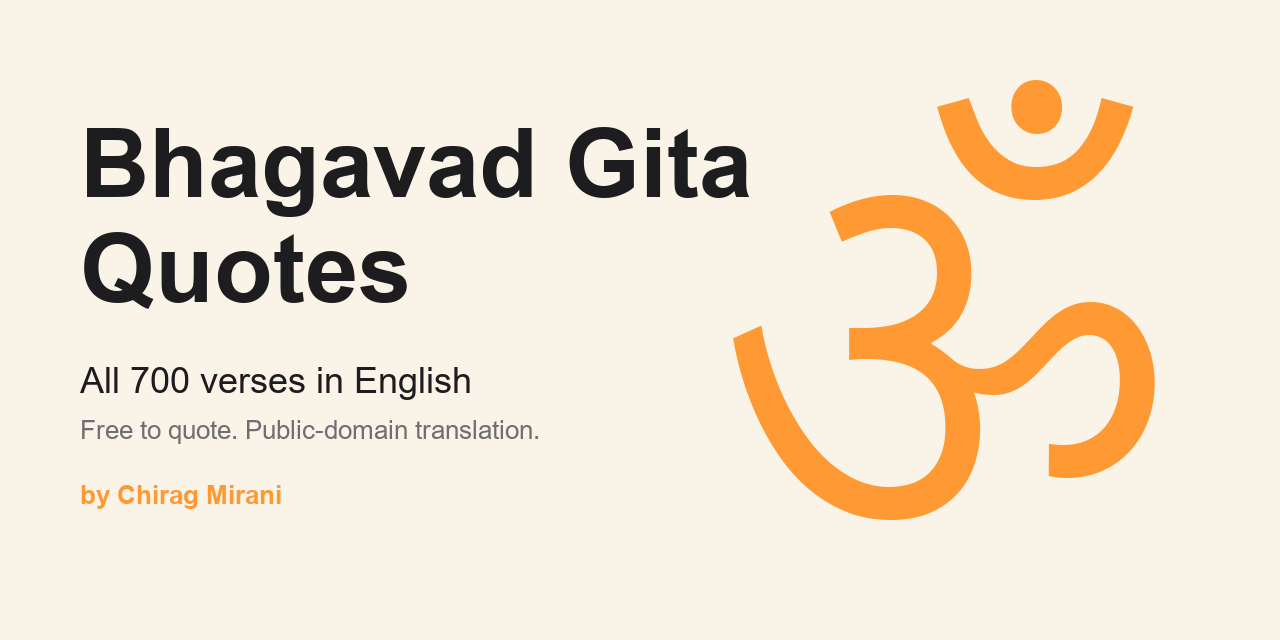
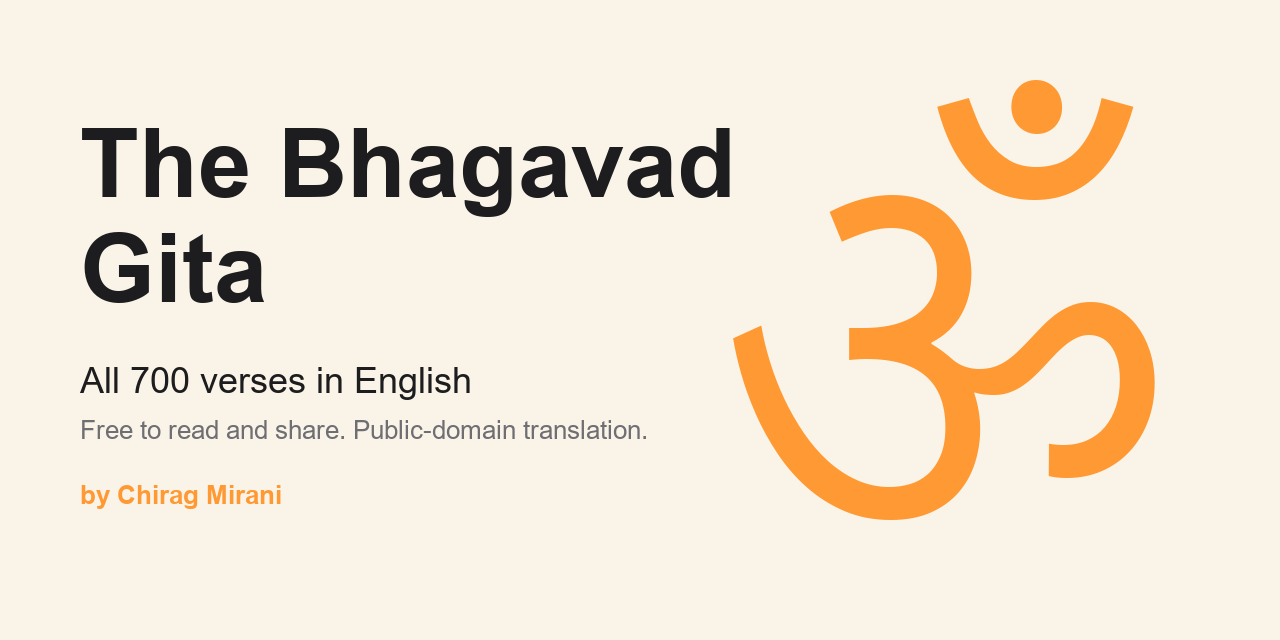
Reframe as the Bhagavad Gita itself, not quotes from it. Brand: Gita.

Changed region(s): [[0.0625, 0.1875, 0.5938, 0.3438], [0.0625, 0.3438, 0.3438, 0.5], [0.125, 0.6562, 0.5, 0.6875]]

diff --git a/docs/index.html b/docs/index.html
@@ -3,24 +3,24 @@
   <head>
     <meta charset="utf-8">
     <meta name="viewport" content="width=device-width, initial-scale=1, viewport-fit=cover">
-    <title>Bhagavad Gita Quotes by Chirag Mirani</title>
-    <meta name="description" content="A clean web app for reading and sharing all 700 verses of the Bhagavad Gita in English, with original Sanskrit and transliteration. Free to quote, public-domain translation. Built by Chirag Mirani.">
+    <title>Gita — The Bhagavad Gita in English</title>
+    <meta name="description" content="The complete Bhagavad Gita, all 700 verses in English. The dialogue between Krishna and Arjuna on duty, action, and the self. Original Sanskrit, transliteration, and a clean public-domain English translation. Free to read, share, and reuse.">
     <meta name="author" content="Chirag Mirani">
     <meta name="robots" content="index,follow,max-image-preview:large">
-    <meta name="keywords" content="bhagavad gita, gita quotes, bhagavad gita english, gita verses, krishna arjuna, hindu philosophy, gita app, gita quote of the day">
+    <meta name="keywords" content="bhagavad gita, bhagavad gita english, gita verses, srimad bhagavad gita, krishna arjuna dialogue, hindu philosophy, gita online, read bhagavad gita">
     <link rel="canonical" href="https://chiragmirani.github.io/gita-quotes/">
 
-    <meta property="og:type" content="website">
-    <meta property="og:title" content="Bhagavad Gita Quotes by Chirag Mirani">
-    <meta property="og:description" content="All 700 verses of the Bhagavad Gita in English, free to quote. Public-domain translation.">
+    <meta property="og:type" content="book">
+    <meta property="og:title" content="The Bhagavad Gita in English">
+    <meta property="og:description" content="The complete Bhagavad Gita, all 700 verses in English. Free to read and share.">
     <meta property="og:url" content="https://chiragmirani.github.io/gita-quotes/">
-    <meta property="og:site_name" content="Bhagavad Gita Quotes by CM">
+    <meta property="og:site_name" content="The Bhagavad Gita">
     <meta property="og:image" content="https://chiragmirani.github.io/gita-quotes/social-preview.png">
     <meta property="og:image:width" content="1280">
     <meta property="og:image:height" content="640">
     <meta name="twitter:card" content="summary_large_image">
-    <meta name="twitter:title" content="Bhagavad Gita Quotes by Chirag Mirani">
-    <meta name="twitter:description" content="All 700 verses of the Bhagavad Gita in English, free to quote.">
+    <meta name="twitter:title" content="The Bhagavad Gita in English">
+    <meta name="twitter:description" content="The complete Bhagavad Gita, all 700 verses in English. Free to read and share.">
     <meta name="twitter:image" content="https://chiragmirani.github.io/gita-quotes/social-preview.png">
     <meta name="twitter:creator" content="@chirag_mirani1">
 
@@ -31,8 +31,8 @@
     <link rel="manifest" href="manifest.webmanifest">
     <meta name="theme-color" content="#ffffff" media="(prefers-color-scheme: light)">
     <meta name="theme-color" content="#000000" media="(prefers-color-scheme: dark)">
-    <meta name="apple-mobile-web-app-title" content="GitaByCM">
-    <meta name="application-name" content="GitaByCM">
+    <meta name="apple-mobile-web-app-title" content="Gita">
+    <meta name="application-name" content="Gita">
     <meta name="apple-mobile-web-app-capable" content="yes">
     <meta name="apple-mobile-web-app-status-bar-style" content="black-translucent">
 
@@ -46,8 +46,9 @@
           "@type": "WebSite",
           "@id": "https://chiragmirani.github.io/gita-quotes/#website",
           "url": "https://chiragmirani.github.io/gita-quotes/",
-          "name": "Bhagavad Gita Quotes by Chirag Mirani",
-          "description": "All 700 verses of the Bhagavad Gita in English, free to quote.",
+          "name": "The Bhagavad Gita in English",
+          "alternateName": "Gita",
+          "description": "The complete Bhagavad Gita, all 700 verses in English. The dialogue between Krishna and Arjuna.",
           "author": {"@type": "Person", "name": "Chirag Mirani"}
         },
         {
@@ -67,7 +68,7 @@
   <body>
     <main>
       <header class="topbar">
-        <a class="brand" href="./">Gita Quotes</a>
+        <a class="brand" href="./">Gita</a>
         <nav>
           <a href="about.html">About</a>
         </nav>
@@ -93,7 +94,7 @@
         <button type="button" class="btn" id="last">Last verse</button>
         <button type="button" class="btn" id="daily">Verse of the day</button>
         <button type="button" class="btn" id="random">Random</button>
-        <button type="button" class="btn" id="copy">Copy quote</button>
+        <button type="button" class="btn" id="copy">Copy verse</button>
         <button type="button" class="btn" id="link">Copy link</button>
       </div>
 
@@ -103,7 +104,7 @@
       </details>
 
       <footer class="foot">
-        <p>All 700 verses of the Bhagavad Gita in English. Free to quote. Translation by Shri Purohit Swami (1935, public domain). Source data from <a href="https://vedicscriptures.github.io/" target="_blank" rel="noopener">vedicscriptures.github.io</a>.</p>
+        <p>The complete Bhagavad Gita, all 700 verses in English. Free to read, share, and reuse. Translation by Shri Purohit Swami (1935, public domain). Source data from <a href="https://vedicscriptures.github.io/" target="_blank" rel="noopener">vedicscriptures.github.io</a>.</p>
         <p class="muted">Built by Chirag Mirani. <a href="https://github.com/ChiragMirani/gita-quotes" target="_blank" rel="noopener">Source on GitHub</a>. Other work at <a href="https://chiragmirani.github.io/macro-dashboard/" target="_blank" rel="noopener">MacroForecastbyCM</a>.</p>
       </footer>
     </main>
@@ -198,7 +199,7 @@
       btnDaily.addEventListener("click", () => show(dailyVerseIndex()));
       btnCopy.addEventListener("click", () => {
         const v = verses[currentIndex];
-        const text = "\"" + stripPrefix(v.english, v.id) + "\" — Bhagavad Gita " + v.chapter + "." + v.verse;
+        const text = stripPrefix(v.english, v.id) + "\n\nBhagavad Gita " + v.chapter + "." + v.verse;
         navigator.clipboard.writeText(text).then(() => flashButton(btnCopy, "Copied"));
       });
       btnLink.addEventListener("click", () => {

diff --git a/docs/about.html b/docs/about.html
@@ -3,23 +3,32 @@
   <head>
     <meta charset="utf-8">
     <meta name="viewport" content="width=device-width, initial-scale=1, viewport-fit=cover">
-    <title>About | Bhagavad Gita Quotes by Chirag Mirani</title>
-    <meta name="description" content="About this Bhagavad Gita quotes web app. Translation source, verse counts, license, and how to install on iOS or Android.">
+    <title>About | Gita — The Bhagavad Gita in English</title>
+    <meta name="description" content="About this Bhagavad Gita web app. Translation source, verse counts, license, and how to install on iOS or Android.">
+    <meta name="robots" content="index,follow">
     <link rel="canonical" href="https://chiragmirani.github.io/gita-quotes/about.html">
+
+    <meta property="og:type" content="website">
+    <meta property="og:title" content="About Gita">
+    <meta property="og:description" content="About the Gita web app. Sources, license, install instructions.">
+    <meta property="og:url" content="https://chiragmirani.github.io/gita-quotes/about.html">
+    <meta property="og:image" content="https://chiragmirani.github.io/gita-quotes/social-preview.png">
+    <meta name="twitter:card" content="summary_large_image">
+    <meta name="twitter:image" content="https://chiragmirani.github.io/gita-quotes/social-preview.png">
 
     <link rel="icon" href="favicon.ico" sizes="any">
     <link rel="apple-touch-icon" href="apple-touch-icon.png">
     <link rel="manifest" href="manifest.webmanifest">
     <meta name="theme-color" content="#ffffff" media="(prefers-color-scheme: light)">
     <meta name="theme-color" content="#000000" media="(prefers-color-scheme: dark)">
-    <meta name="apple-mobile-web-app-title" content="GitaByCM">
+    <meta name="apple-mobile-web-app-title" content="Gita">
 
     <link rel="stylesheet" href="static/styles.css">
   </head>
   <body>
     <main>
       <header class="topbar">
-        <a class="brand" href="./">Gita Quotes</a>
+        <a class="brand" href="./">Gita</a>
         <nav>
           <a href="./">Home</a>
         </nav>
@@ -28,10 +37,10 @@
       <section class="prose">
         <h1>About</h1>
 
-        <p>This is a small web app that gives you a clean, shareable way to read all 700 verses of the Bhagavad Gita in English. Tap "New verse" for a random one, copy the text or the link, or share to X with one tap. Sanskrit and transliteration are tucked under a toggle.</p>
+        <p>The complete Bhagavad Gita, all 700 verses in English, presented one verse at a time. Tap "Next verse" to read the dialogue between Krishna and Arjuna in canonical order. Sanskrit and transliteration are tucked under a toggle. Your position is saved in your browser, so you can close the app and pick up where you left off.</p>
 
         <h2>Translation</h2>
-        <p>The English translation is by Shri Purohit Swami, first published in 1935. It is in the public domain. Where Purohit's translation was unavailable, the app falls back to Swami Sivananda's English translation. Both are free to quote and redistribute.</p>
+        <p>The English translation is by Shri Purohit Swami, first published in 1935. It is in the public domain. Where Purohit's translation was unavailable, the app falls back to Swami Sivananda's English translation. Both are free to read, share, and reuse.</p>
 
         <h2>Source data</h2>
         <p>Verses, Sanskrit, transliteration, and translations were pulled from <a href="https://vedicscriptures.github.io/" target="_blank" rel="noopener">vedicscriptures.github.io</a>. The full machine-readable dataset is at <a href="data.json">data.json</a>.</p>
@@ -40,7 +49,7 @@
         <p>The Gita is traditionally cited as 700 verses across 18 chapters. This dataset contains 701, because the source's edition of chapter 13 has 35 verses where some editions have 34. Either way, the full text is here.</p>
 
         <h2>Install on your home screen</h2>
-        <p>On iPhone, open this page in Safari, tap the Share button, then tap "Add to Home Screen." It installs as a standalone app called GitaByCM with its own icon. On Android, use Chrome's "Add to Home screen" or "Install app" option from the menu.</p>
+        <p>On iPhone, open this page in Safari, tap the Share button, then tap "Add to Home Screen." It installs as a standalone app called Gita with its own icon. On Android, use Chrome's "Add to Home screen" or "Install app" option from the menu.</p>
 
         <h2>Built by</h2>
         <p>Chirag Mirani. Other public work at <a href="https://chiragmirani.github.io/macro-dashboard/">MacroForecastbyCM</a>, <a href="https://github.com/ChiragMirani">GitHub</a>, and <a href="https://www.kaggle.com/cmirani">Kaggle</a>. Source code for this app at <a href="https://github.com/ChiragMirani/gita-quotes">github.com/ChiragMirani/gita-quotes</a>.</p>

diff --git a/scripts/build_social_card.py b/scripts/build_social_card.py
@@ -53,10 +53,10 @@ def main() -> None:
     draw.text((ox, oy), om, fill=OM_COLOR, font=f_om)
 
     # Title block on the left.
-    title = "Bhagavad Gita"
-    line2 = "Quotes"
+    title = "The Bhagavad"
+    line2 = "Gita"
     sub   = "All 700 verses in English"
-    sub2  = "Free to quote. Public-domain translation."
+    sub2  = "Free to read and share. Public-domain translation."
     by    = "by Chirag Mirani"
 
     f_title = sans(96, bold=True)

diff --git a/README.md b/README.md
@@ -1,19 +1,23 @@
-# Bhagavad Gita Quotes by CM
+# Gita
+
+The complete Bhagavad Gita, all 700 verses in English. The dialogue between Krishna and Arjuna.
 
 Live site: [chiragmirani.github.io/gita-quotes](https://chiragmirani.github.io/gita-quotes/)
 Maintained by: Chirag Mirani
 
-A small, fast web app for reading and sharing all 700 verses of the Bhagavad Gita in English. Free to quote, public-domain translation, no signup, no ads, installable on iOS and Android home screens.
+A small, fast web app for reading the Gita verse by verse. Free to read, share, and reuse. Public-domain translation. No signup, no ads, no tracking. Installable on iOS and Android home screens.
 
 ## What it is
 
-Open the site, get a verse, tap "New verse" for another. Each verse comes with the original Sanskrit, IAST transliteration, and an English translation. One tap copies the quote with attribution. One tap shares to X. One tap copies a deep link to the exact verse.
+The Bhagavad Gita is a 700-verse philosophical dialogue between Krishna and Arjuna on the battlefield of Kurukshetra. It is one of the most important texts in Hindu thought. This app presents the complete text, one verse at a time, in canonical order.
+
+Open the site, read the current verse, tap "Next verse" to advance through the dialogue. Each verse comes with the original Sanskrit, IAST transliteration, and an English translation. Position is saved between visits, so you can close the app and pick up where you left off.
 
 The app reads from a single JSON file containing all 701 verses across 18 chapters (the source's edition of chapter 13 has 35 verses where some have 34, hence 701 not 700). No backend, no tracking, no ads.
 
 ## Translation
 
-Primary translator: Shri Purohit Swami, first published in 1935. Public domain. Conversational and quote-friendly.
+Primary translator: Shri Purohit Swami, first published in 1935. Public domain. Conversational and accessible.
 
 Fallback translator: Swami Sivananda. Used only when Purohit's translation is unavailable for a verse. Widely free to quote.
 
@@ -25,10 +29,10 @@ All verses, Sanskrit, transliteration, and English translations were pulled from
 
 ## Install on your home screen
 
-1. iOS: open the live site in Safari, tap the Share button, then "Add to Home Screen". The app appears as GitaByCM with its own icon.
+1. iOS: open the live site in Safari, tap the Share button, then "Add to Home Screen". The app appears as Gita with its own icon.
 2. Android: open the live site in Chrome, open the menu, tap "Install app" or "Add to Home screen".
 
-Once installed, the app launches in standalone mode without browser chrome.
+Once installed, the app launches in standalone mode without browser chrome. Works offline after the first visit.
 
 ## Project layout
 
@@ -39,6 +43,7 @@ gita-quotes/
     about.html              attribution and install instructions
     static/styles.css       styling
     data.json               all 701 verses
+    sw.js                   service worker for offline
     favicon.ico, *.png      icons
     apple-touch-icon.png    iOS home-screen icon
     manifest.webmanifest    PWA manifest
@@ -62,7 +67,7 @@ This re-pulls all 701 verses from vedicscriptures.github.io and overwrites `docs
 
 ## License
 
-Code in this repo is MIT-licensed. Translations are in the public domain or free-to-quote (see Translation section above). You can lift any verse, the entire dataset, or any part of the code.
+Code in this repo is MIT-licensed. Translations are in the public domain or free to quote (see Translation section above). You can lift any verse, the entire dataset, or any part of the code.
 
 ## Contact
 
